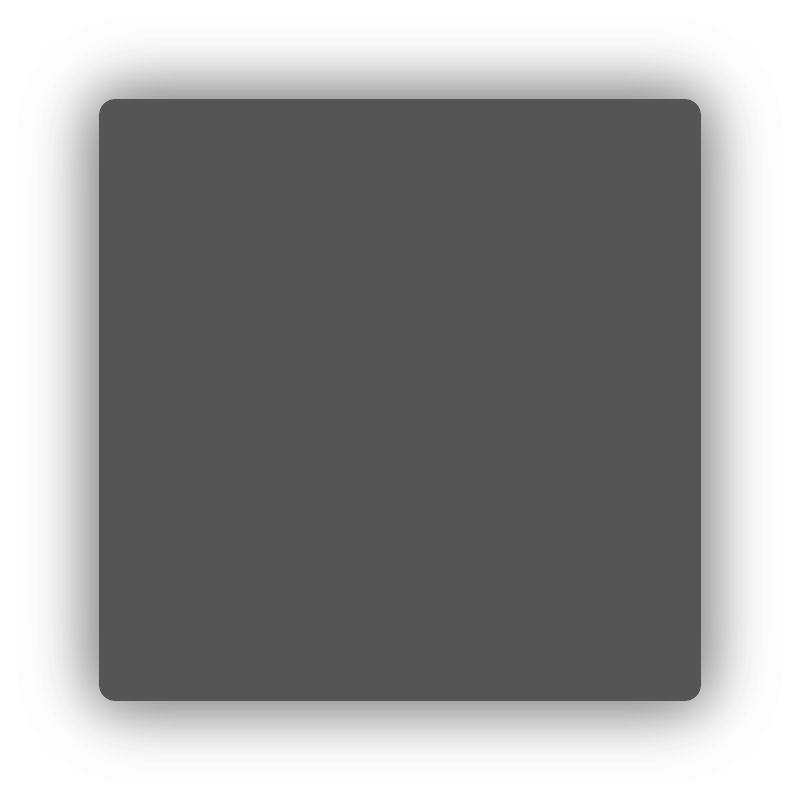
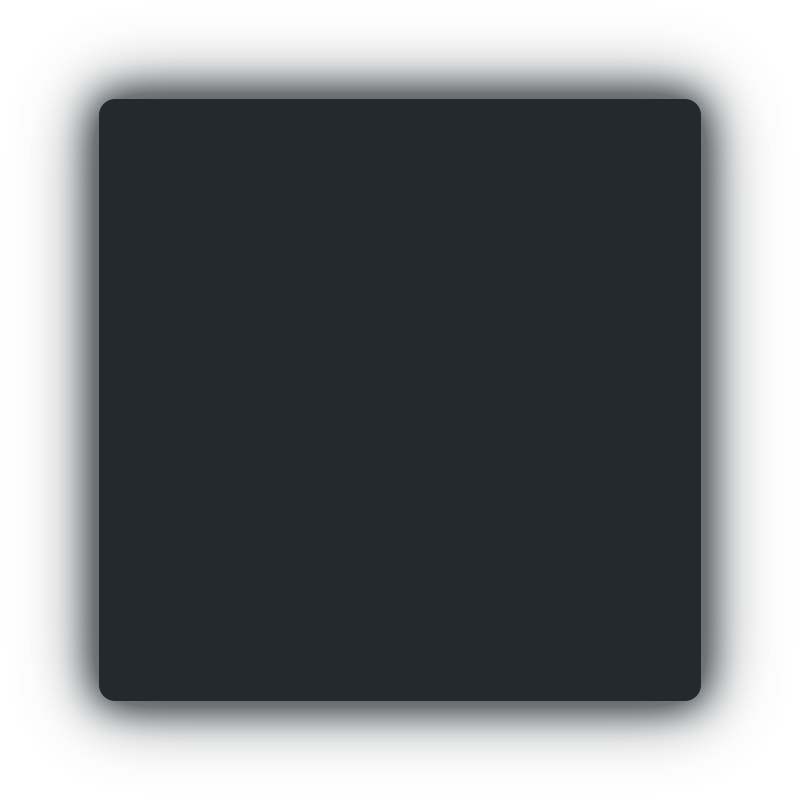
radio button and overlay screen fixed

diff --git a/resource/sass/widget/_overlay.scss b/resource/sass/widget/_overlay.scss
@@ -1,16 +1,5 @@
 /** Overlay */
 
-BusyOverlay {
-    // Doesn't currently work due to Sass logic.
-    // background-color: rgba(255, 255, 255, 200);
-}
-
-BusyOverlay QLabel {
-    // Doesn't currently work due to Sass logic.
-    // background: transparent;
-}
-
-/** BusyIndicator */
 BlockingOverlay {
         background-color: $overlay-bg;
         border: none;
@@ -25,12 +14,3 @@ BlockingOverlay QFrame#content {
 BlockingOverlay QLabel {
         background: transparent;
 }
-
-// BusyIndicator QWidget{
-//     background-color: red;
-// }
-//
-//
-// BusyIndicator QPen {
-//     color: red;
-// }

diff --git a/resource/sass/_colors_dark.scss b/resource/sass/_colors_dark.scss
@@ -43,7 +43,7 @@ $text-color:                    white;
 $text-color-default:            white;
 $text-color-default-hover:      darken($text-color-default, 5%);
 $text-color-default-pressed:    darken($text-color-default, 5%);
-$text-color-light:              $white;
+$text-color-light:              white;
 $text-color-primary:            #548cd7;
 $border-color:                  $color-purple;
 

diff --git a/source/ftrack_connect/ui/widget/overlay.py b/source/ftrack_connect/ui/widget/overlay.py
@@ -167,24 +167,6 @@ class BlockingOverlay(Overlay):
         self.messageLabel.setAlignment(QtCore.Qt.AlignCenter)
         self.contentLayout.addWidget(self.messageLabel)
 
-        # self.setStyleSheet('''
-        #     BlockingOverlay {
-        #         background-color: rgba(250, 250, 250, 200);
-        #         border: none;
-        #     }
-        #
-        #     BlockingOverlay QFrame#content {
-        #         padding: 0px;
-        #         border: 80px solid transparent;
-        #         background-color: transparent;
-        #         border-image: url(:ftrack/image/default/boxShadow) 140 stretch;
-        #     }
-        #
-        #     BlockingOverlay QLabel {
-        #         background: transparent;
-        #     }
-        # ''')
-
         self.setMessage(message)
 
     def message(self):
